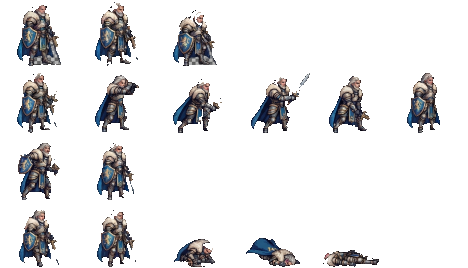
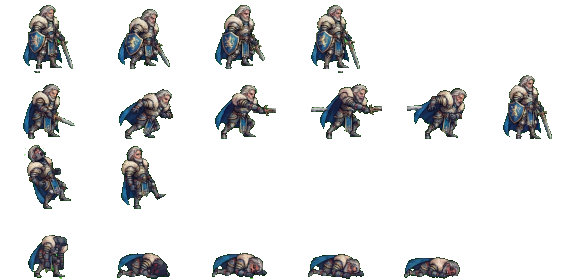
Tiras chibi de Aldric, Delyth y Neira rehechas desde las láminas nuevas (sin desplegar)

diff --git a/src/battleStage.js b/src/battleStage.js
@@ -26,12 +26,12 @@ const SIZE = TILE * SCALE; // 48px por actor a escala base (sprites fijos sin ve
 // tamaño de celda y los cuadros de cada una. Quien no tenga tira (monstruos de
 // décadas aún sin arte chibi) sigue con su sprite fijo de siempre.
 let CHIBI = {};
-fetch('src/assets/chibi/index.json?v=1').then(r=> r.json()).then(j=>{ CHIBI = j; }).catch(()=>{});
+fetch('src/assets/chibi/index.json?v=2').then(r=> r.json()).then(j=>{ CHIBI = j; }).catch(()=>{});
 const chibiImgs = {}; // key -> Image (cargando o lista)
 function chibiAnimFor(key){
   const meta = CHIBI[key];
   if(!meta) return null;
-  if(!chibiImgs[key]){ chibiImgs[key] = new Image(); chibiImgs[key].src = `src/assets/chibi/${key}.png?v=1`; }
+  if(!chibiImgs[key]){ chibiImgs[key] = new Image(); chibiImgs[key].src = `src/assets/chibi/${key}.png?v=2`; }
   const img = chibiImgs[key];
   return img.complete && img.naturalWidth > 0 ? new SpriteAnim(img, sheetFromMeta(meta)) : null;
 }

diff --git a/src/labyrinthMap.js b/src/labyrinthMap.js
@@ -22,7 +22,7 @@ const BADGE = {
 };
 
 let CHIBI = {};
-fetch('src/assets/chibi/index.json?v=1').then(r=> r.json()).then(j=>{ CHIBI = j; }).catch(()=>{});
+fetch('src/assets/chibi/index.json?v=2').then(r=> r.json()).then(j=>{ CHIBI = j; }).catch(()=>{});
 const imgs = {};
 function img(src){
   if(!imgs[src]){ imgs[src] = new Image(); imgs[src].src = src; }
@@ -30,7 +30,7 @@ function img(src){
   return i.complete && i.naturalWidth > 0 ? i : null;
 }
 function chibiAnim(key){
-  const meta = CHIBI[key], image = meta && img(`src/assets/chibi/${key}.png?v=1`);
+  const meta = CHIBI[key], image = meta && img(`src/assets/chibi/${key}.png?v=2`);
   return image ? new SpriteAnim(image, sheetFromMeta(meta)) : null;
 }
 

diff --git a/tools/import_chibi.py b/tools/import_chibi.py
@@ -50,8 +50,8 @@ SENDA_POR_ARCHIVO = {
 # Aliados de la Taberna (Assets/Aliados/chibi): id corto -> templateId del aliado.
 # Salen como aliado_<templateId>.png en la misma carpeta e índice.
 ALIADO_POR_ARCHIVO = {
-    'b6v5xj': 'aldric', '9p1x6z': 'brann', 'jmp9l5': 'neira', 'nbaykx': 'lyra', 'elrxyo': 'fennwick',
-    'gzta75': 'eira', 'ndli9n': 'delyth', '28eevs': 'seraphina', 'x0x2c5': 'vex', 'ok5fxk': 'kael',
+    'qyvu4r': 'aldric', '9p1x6z': 'brann', 'n49u2c': 'neira', 'nbaykx': 'lyra', 'elrxyo': 'fennwick',
+    'gzta75': 'eira', 'fgeg6g': 'delyth', '28eevs': 'seraphina', 'x0x2c5': 'vex', 'ok5fxk': 'kael',
 }
 
 
